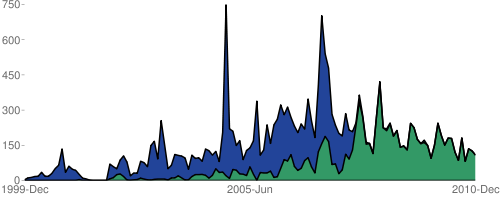
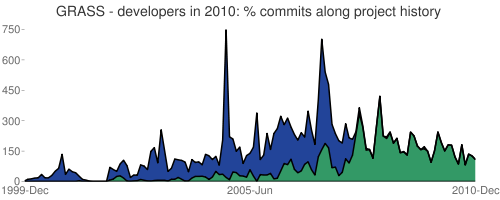
Adding title to generational analysis images

diff --git a/commits_by_month_compared.py b/commits_by_month_compared.py
@@ -33,6 +33,7 @@ chart.set_colours(['000000'])
 
 chart.add_fill_range('224499', 0, 1)
 chart.add_fill_range('339966', 1, 2)
+#chart.add_fill_range('76A4FB', 1, 2)
 
 legend_array_stripped = [legend_array[0],
                          legend_array[len(legend_array)/2],
@@ -41,7 +42,9 @@ legend_array_stripped = [legend_array[0],
 chart.set_axis_labels('x', legend_array_stripped)
 chart.set_axis_labels('y', ['0', '150', '300', '450', '600', '750'])
 
+name = os.path.basename(datacompletefile)
+chart.set_title(name.split('.')[0].upper() + " - developers in 2010: % commits along project history")
+
 print chart.get_url()
 
-name = os.path.basename(datacompletefile)
 chart.download('images/commits_by_month_compared_2010_'+str(name.split('.')[0])+'.png')
